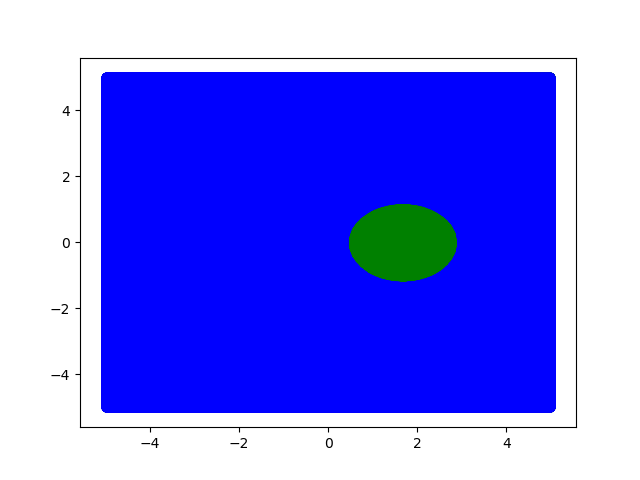
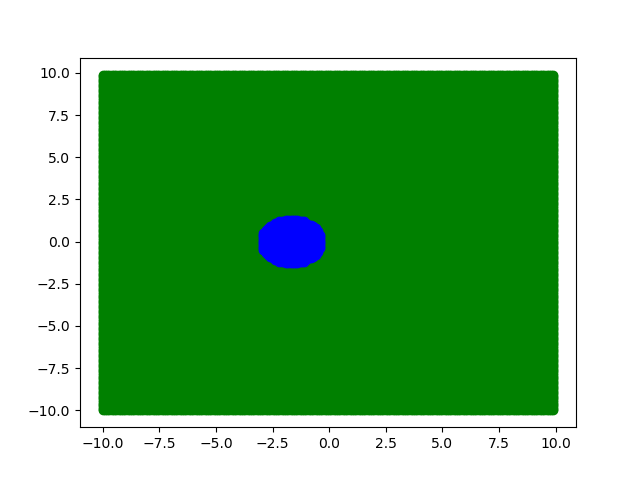
96847

diff --git a/python/Ferdinand _Vergewaltigt_Python.py b/python/Ferdinand _Vergewaltigt_Python.py
@@ -28,10 +28,10 @@ if __name__ == '__main__':
     green_list_y = []
     blue_list_x = []
     blue_list_y = []
-    UPPER_BOUNDARY = 10
-    LOWER_BOUNDARY = -10
-    STEP_SIZE = 0.01
-    RADIUS = 2
+    UPPER_BOUNDARY = 100
+    LOWER_BOUNDARY = -100
+    STEP_SIZE = 0.1
+    RADIUS = 1
 
     for i in np.arange(LOWER_BOUNDARY, UPPER_BOUNDARY, STEP_SIZE):
         for i2 in np.arange(LOWER_BOUNDARY, UPPER_BOUNDARY, STEP_SIZE):
